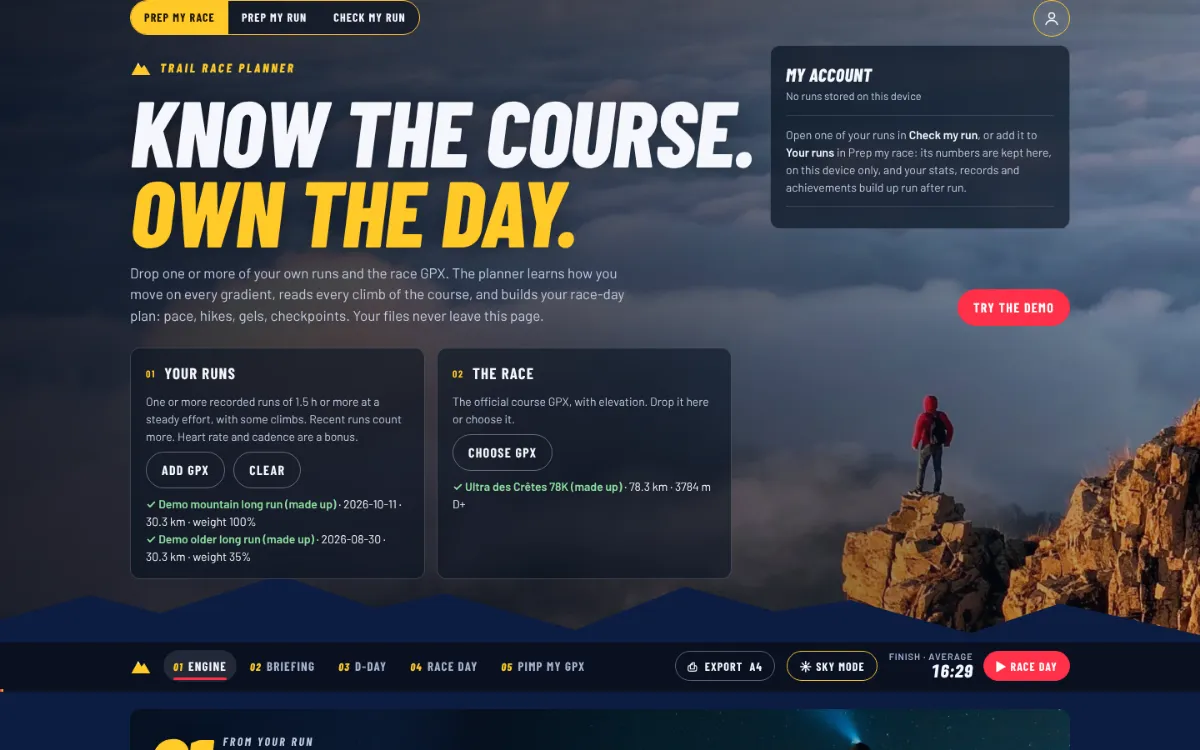
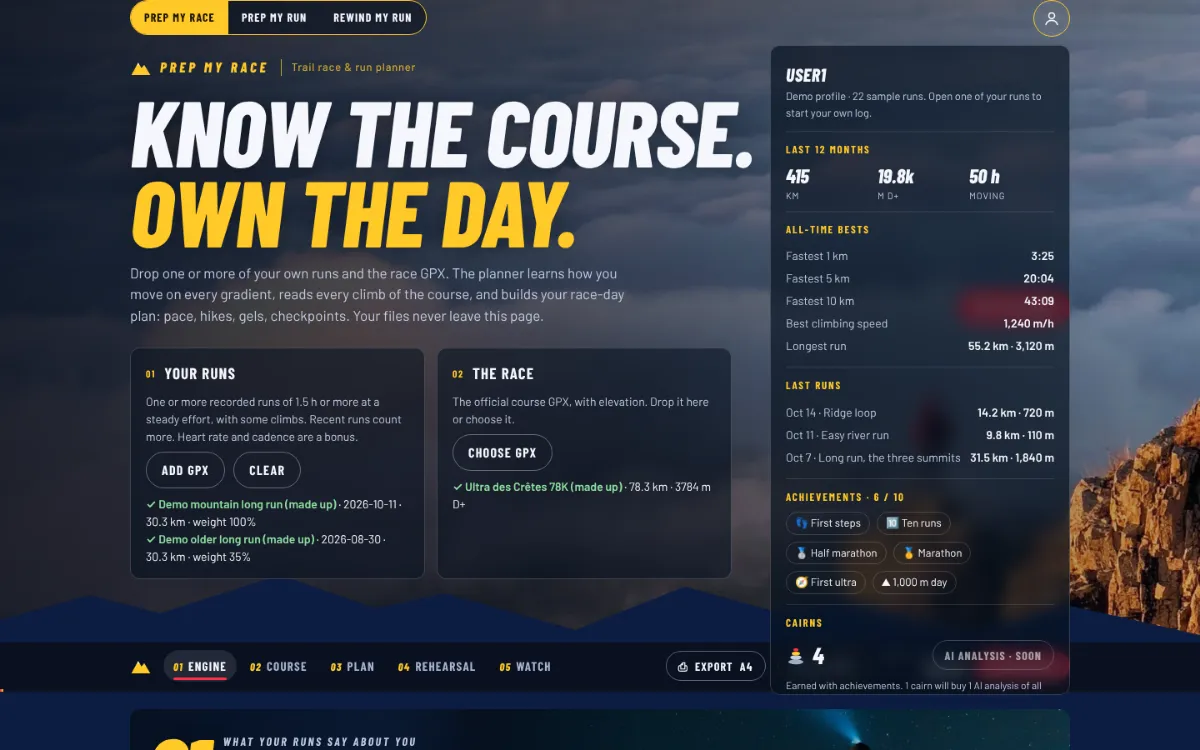
Site pages: v0.36 in What's new, README section, Sky footer headings
Claude-Session: https://claude.ai/code/session_01RYEB1yYjUHD871nyaZBhiN

diff --git a/src/site/changelog.js b/src/site/changelog.js
@@ -2,12 +2,13 @@
 // technical detail). The first entry is the current version: the footer shows it on every page.
 
 export const CHANGELOG = [
-  { v: "0.35", date: "2026-10-16", items: [
+  { v: "0.36", date: "2026-10-16", items: [
     "User guide with a screenshot and tips for every mode and section, and an FAQ.",
     "A \"?\" next to each section title: what it shows, in three lines, with a link to the guide.",
     "About, Privacy and What's new pages, a site footer with contact, credits and the version.",
     "Tab icon and a preview card when the link is shared; a proper page for broken links.",
   ] },
+  { v: "0.35", date: "2026-10-16", items: ["New name: Prep my race. Modes Prep my race, Prep my run and Rewind my run; one-word sections Engine, Course, Plan, Rehearsal, Watch, Recap, Deep dive.", "Account menu shows a demo profile until your own runs are logged."] },
   { v: "0.34", date: "2026-10-16", items: ["Export A4: print each mode as clean A4 pages, or save them as a PDF."] },
   { v: "0.33", date: "2026-10-15", items: ["Online account prepared (sign-in by email link, cairns checked on the server, one AI analysis per cairn). Not open yet: nothing is sent."] },
   { v: "0.32", date: "2026-10-15", items: ["Account menu: a log of your runs on this device, with stats, bests, achievements and cairns. Export or delete it any time."] },

diff --git a/src/site/guide.js b/src/site/guide.js
@@ -73,7 +73,7 @@ export const GUIDE = [
         tip: "Print the race card and keep it in your pack: checkpoint times, with blank boxes to write your real times." },
       { id: "account", sec: "", num: "◎", name: "Account menu", shot: "account",
         what: "The round icon at the top right of the header: a log of the runs you loaded on this device, with stats, bests, achievements and cairns.",
-        how: ["Your own runs are added automatically (never the demo or sample).", "Export the log as a file, or delete it, from the same menu.", "The online account is not open yet: everything stays in this browser."],
+        how: ["Your own runs are added automatically (never the demo or sample). Until the first one, it shows a demo profile with made-up runs.", "Export the log as a file, or delete it, from the same menu.", "The online account is not open yet: everything stays in this browser."],
         tip: "Cairns are earned with achievements and records. Later, one cairn will buy one AI analysis of a run." },
     ],
   },

diff --git a/src/site/site.css b/src/site/site.css
@@ -126,3 +126,4 @@ body.site-page{background:var(--band-1)}
 .nf .lead{color:var(--muted);font-size:18px;max-width:50ch}
 .nf p:last-child{display:flex;gap:10px;flex-wrap:wrap}
 .site-page .tn-brand{display:flex!important}
+html[data-theme="sky"] .sf-col h4,html[data-theme="sky"] .sf-logo svg{color:#ffd66b}

diff --git a/README.md b/README.md
@@ -86,6 +86,15 @@ npm run build    build dist/index.html (one self-contained file)
 npm run dev      build, then serve it on http://localhost:5173
 ```
 
+## Site pages
+
+Next to the app, the build writes `guide.html` (user guide with screenshots and FAQ), `about.html` (with "How it works" from `docs/HOW_IT_WORKS.md`), `privacy.html`, `changelog.html` and `404.html` (`scripts/site-pages.js`). Their text lives in `src/site/`: `guide.js` (also used by the "?" bubbles of the app, `src/ui/help.js`), `changelog.js` (the first entry is the version shown in the footer) and `site.js` (name, contact, footer). External links are inert until `SITE.linksLive` is set to `true`.
+
+```
+node scripts/guide-shots.mjs    retake the guide screenshots from dist/ (needs Playwright), after npm run build
+node scripts/site-images.mjs    remake the PNG icons and the share-preview image og.jpg
+```
+
 ## Privacy
 
 GPX files show where you live and train. `.gitignore` excludes `*.gpx` so they do not end up in a repository by accident. The tests use made-up routes.
